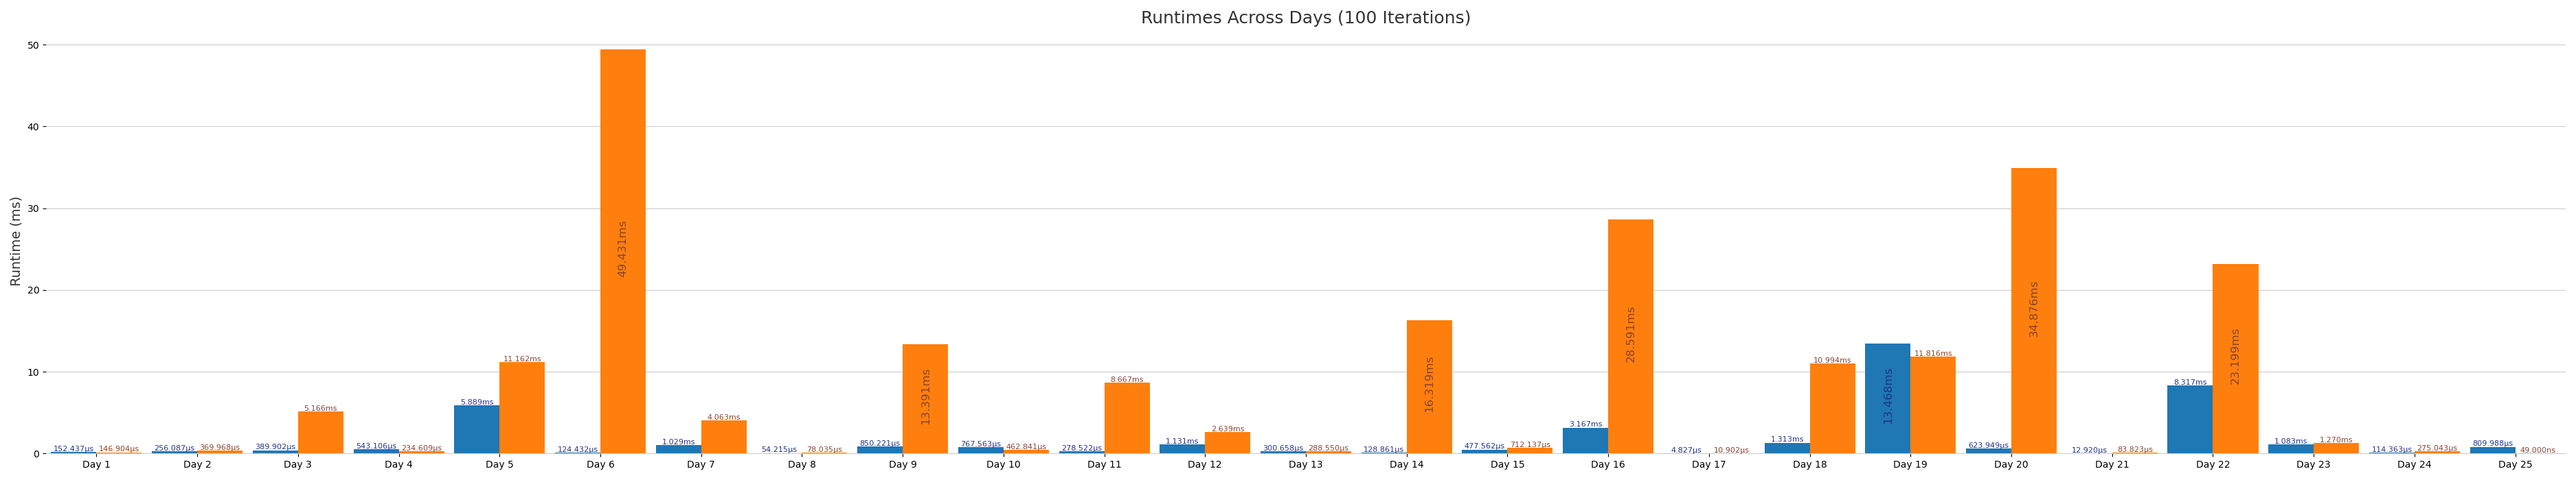
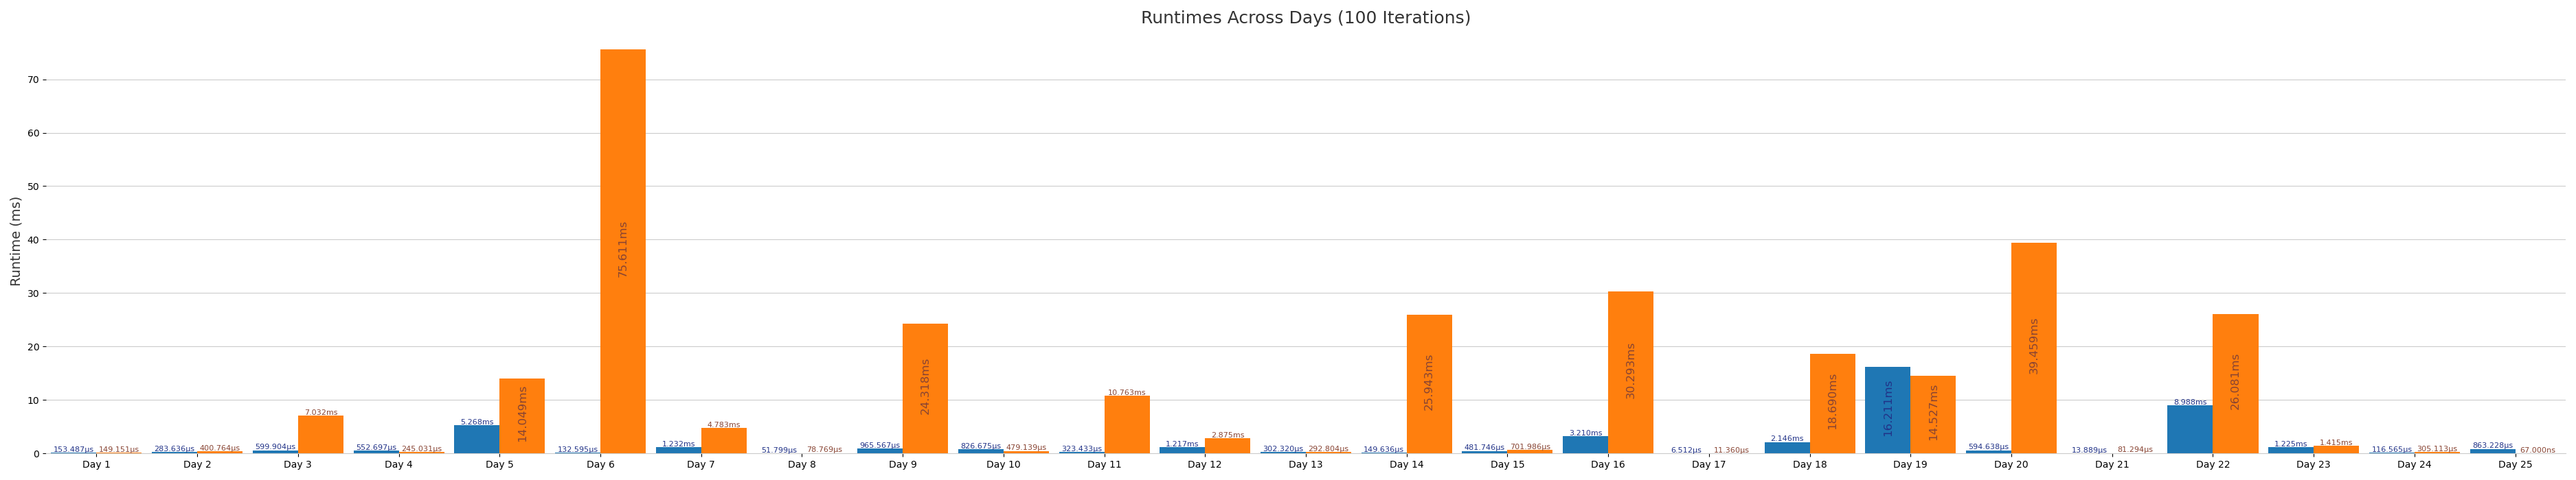
Fixed benchmarking

diff --git a/benchmark.py b/benchmark.py
@@ -55,20 +55,38 @@ def get_time_unit_and_scale(time):
         return "s", 1
 
 
+# Function to compile the Rust project
+def compile_rust_project(day_input):
+    project_path = f"day{day_input}/src"
+    try:
+        subprocess.run(
+            ["cargo", "build", "--color=always", "--release"],
+            cwd=project_path, check=True)
+    except subprocess.CalledProcessError:
+        print(f"Failed to compile project for day {day_input}")
+
+
 # Function to run the Rust binary and parse its output
 def run_rust_binary(day_input):
     try:
         result = subprocess.run(
             [f"target/release/day{day_input}"],
-            cwd=f"day{day_input}",
+            cwd="./",
             capture_output=True,
             text=True,
             check=True
         )
+
         output = result.stdout
-        part1_time = parse_time(re.search(r"Part 1 result: .*?, took: ([\d.]+[a-zµ]*)", output).group(1))
-        part2_time = parse_time(re.search(r"Part 2 result: .*?, took: ([\d.]+[a-zµ]*)", output).group(1))
-        return part1_time, part2_time
+        search_1 = re.search(r"Part-1 \( (.*?) \) - ([\d.]+[a-zµ]*)", output)
+        search_2 = re.search(r"Part-2 \( (.*?) \) - ([\d.]+[a-zµ]*)", output)
+
+        part1_result = search_1.group(1)
+        part2_result = search_2.group(1)
+        part1_time = parse_time(search_1.group(2))
+        part2_time = parse_time(search_2.group(2))
+
+        return part1_time, part2_time, part1_result, part2_result
     except subprocess.CalledProcessError as e:
         print(f"Error running binary:\n{e.stderr}")
         return None, None
@@ -92,9 +110,12 @@ def process_day(day, iterations):
     part1_times = []
     part2_times = []
 
+    p1_result = ""
+    p2_result = ""
+
     # Run the Rust binary several times
     for _ in range(iterations):
-        p1_time, p2_time = run_rust_binary(day)
+        p1_time, p2_time, p1_result, p2_result = run_rust_binary(day)
         if p1_time is not None and p2_time is not None:
             bisect.insort(part1_times, p1_time)
             bisect.insort(part2_times, p2_time)
@@ -102,6 +123,10 @@ def process_day(day, iterations):
     # Remove outliers (twice)
     part1_times_clean = remove_outliers(part1_times)
     part2_times_clean = remove_outliers(part2_times)
+
+    print(f"Day {day}")
+    print(f" |> {p1_result}")
+    print(f" |> {p2_result}")
 
     return part1_times_clean, part2_times_clean
 
@@ -112,15 +137,8 @@ def main(iterations=100):
     # First, compile the Rust projects
     days = 25
     print("Compiling Rust projects...")
-    try:
-        subprocess.run(
-            [
-                "cargo", "build", "--color=always",
-                "--profile", "release"
-            ], cwd="./")
-    except subprocess.CalledProcessError:
-        print(f"Error compiling Rust projects")
-        return
+    for day in range(1, days + 1):
+        compile_rust_project(day)
 
     # Use ThreadPoolExecutor or ProcessPoolExecutor (code stolen from ChatGPT 4)
     results = {}
